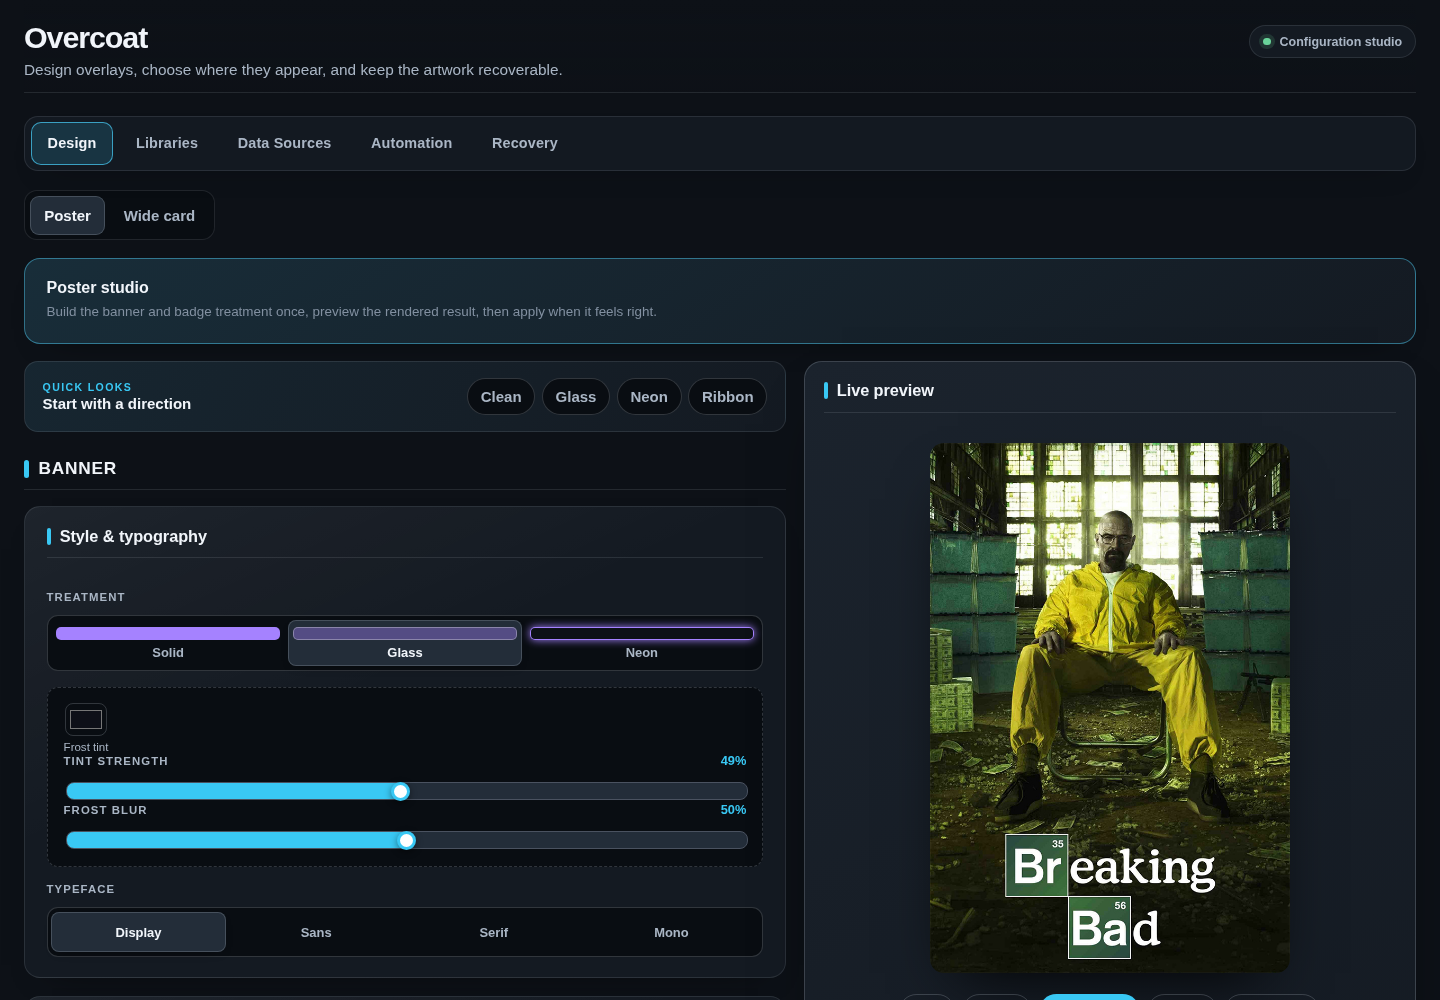
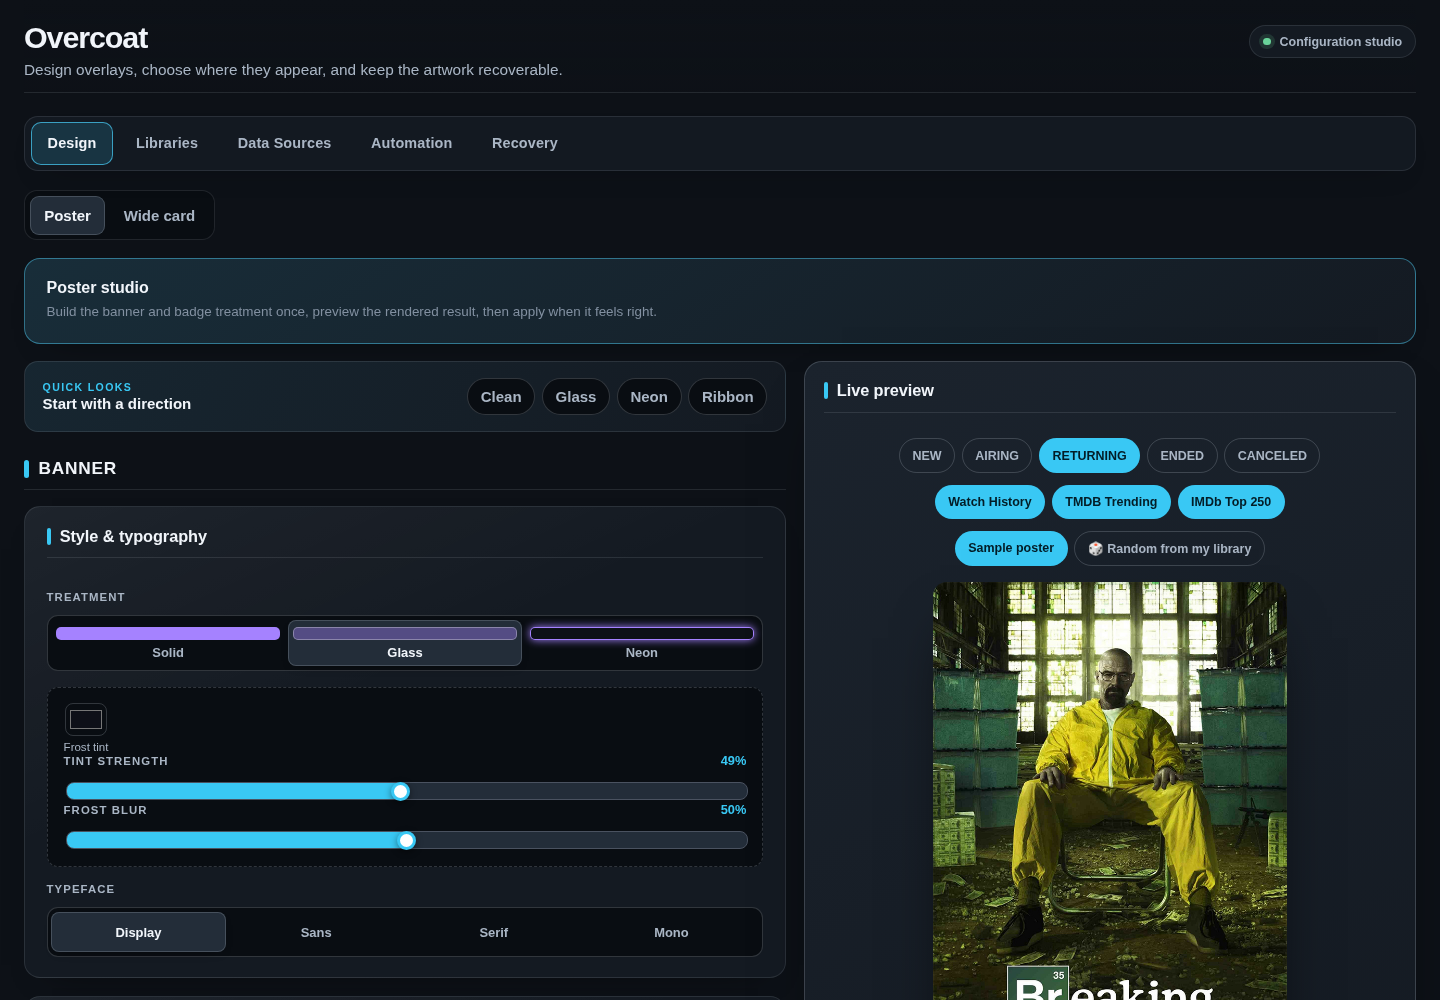
Keep preview controls above artwork

Changed region(s): [[0.625, 0.434, 0.9062, 1.0]]

diff --git a/Jellyfin.Plugin.Overcoat/Configuration/configPage.html b/Jellyfin.Plugin.Overcoat/Configuration/configPage.html
@@ -330,16 +330,13 @@
                                 <button type="button" class="ovcChip ovcChipActive" data-badge="tmdb_trending" aria-pressed="true">TMDB Trending</button>
                                 <button type="button" class="ovcChip ovcChipActive" data-badge="imdb_top250" aria-pressed="true">IMDb Top 250</button>
                             </div>
-                            <div class="fieldDescription">Pick a status for the banner; toggle which badges show.</div>
                             <div class="ovcStatusSwitch">
                                 <button type="button" class="ovcChip ovcSourceBtn ovcChipActive" data-source="placeholder">Sample poster</button>
                                 <button type="button" class="ovcChip ovcSourceBtn" data-source="random">🎲 Random from my library</button>
                             </div>
                             <img id="PostersPreview" alt="Poster preview" />
                             <div class="ovcMuted">
-                                Banner + badges together, exactly as a real run would produce them. Random picks a
-                                clean poster from your own library (click again for another); it never uses one
-                                Overcoat has already overlaid.
+                                Banner and badges together. Random uses a clean, unmodified poster from your library.
                             </div>
                         </div>
                     </div>
@@ -456,15 +453,13 @@
                                 <button type="button" class="ovcChip ovcChipActive" data-badge="tmdb_trending" aria-pressed="true">TMDB Trending</button>
                                 <button type="button" class="ovcChip ovcChipActive" data-badge="imdb_top250" aria-pressed="true">IMDb Top 250</button>
                             </div>
-                            <div class="fieldDescription">Pick a status for the banner; toggle which badges show.</div>
                             <div class="ovcStatusSwitch">
                                 <button type="button" class="ovcChip ovcWideSourceBtn ovcChipActive" data-source="placeholder">Sample card</button>
                                 <button type="button" class="ovcChip ovcWideSourceBtn" data-source="random">🎲 Random from my library</button>
                             </div>
                             <img id="WidePreview" alt="Wide-card preview" />
                             <div class="ovcMuted">
-                                Banner + badges on a 16:9 wide card. Random picks a clean series thumb from your own
-                                library; it never uses one Overcoat has already overlaid.
+                                Banner and badges together. Random uses a clean series thumb from your library.
                             </div>
                         </div>
                     </div>

diff --git a/tools/Showcase/capture-settings.js b/tools/Showcase/capture-settings.js
@@ -139,6 +139,9 @@ const out = path.resolve(process.argv[2] || path.join(root, 'assets'));
         const el=document.querySelector('#'+id), box=el.getBoundingClientRect(), style=getComputedStyle(el);
         return [Math.round(box.width),Math.round(box.height),style.borderRadius].join(':');
       }),
+      previewOverflow: getComputedStyle(document.querySelector('[data-preview-kind="poster"]')).overflowY,
+      randomOrder: parseInt(getComputedStyle(document.querySelector('.ovcSourceBtn[data-source="random"]').parentElement).order, 10),
+      posterOrder: parseInt(getComputedStyle(document.querySelector('#PostersPreview')).order, 10),
     }));
     if (computed.form < Math.min(1200, computed.available - 8)) throw new Error(`Jellyfin's 54em form cap was not overridden (${computed.form}px).`);
     if (page.viewportSize().width >= 1200 && computed.minCard < 470) throw new Error(`Maintenance card is narrower than its 480px design minimum (${computed.minCard}px).`);
@@ -149,6 +152,9 @@ const out = path.resolve(process.argv[2] || path.join(root, 'assets'));
     if (computed.libraryActionRadii.some(x=>x < 20)) throw new Error(`Library artwork actions are not rounded (${computed.libraryActionRadii.join(', ')}).`);
     if (computed.runTop >= computed.behaviourTop) throw new Error('Run Now is not the first Automation section.');
     if (new Set(computed.statusSwitches).size !== 1) throw new Error(`Status visibility switches do not share one shape (${computed.statusSwitches.join(', ')}).`);
+    if (computed.previewOverflow === 'auto' || computed.previewOverflow === 'scroll' || computed.randomOrder >= computed.posterOrder) {
+      throw new Error(`Preview source controls are not accessible above the artwork (${computed.randomOrder}, ${computed.posterOrder}, ${computed.previewOverflow}).`);
+    }
     if (await page.locator('#TrendingTimeWindow option[value="month"]').count() !== 1) throw new Error('Monthly TMDB trending choice is missing.');
     const customSchedule = page.locator('#CustomScheduleTime');
     if (await customSchedule.isChecked()) await customSchedule.click();

diff --git a/Jellyfin.Plugin.Overcoat/Configuration/configPage.css b/Jellyfin.Plugin.Overcoat/Configuration/configPage.css
@@ -202,18 +202,23 @@
 #OvercoatConfigPage .ovcBannerPreview {
     grid-area: preview; position: sticky; top: 4.5rem; z-index: 2;
     display: flex; flex-direction: column; align-items: stretch; gap: .35rem;
-    min-height: 560px; max-height: calc(100vh - 10rem); overflow-y: auto; padding: 1.2rem; text-align: center;
+    min-height: 560px; padding: 1.2rem; text-align: center;
     background: linear-gradient(155deg, var(--ov-surface-2), var(--ov-surface));
     border-color: var(--ov-border-strong); border-radius: 18px;
     box-shadow: 0 25px 65px -38px rgba(0, 0, 0, .95);
 }
 #OvercoatConfigPage .ovcBannerPreview > h3 { order: 0; justify-content: flex-start; }
-#OvercoatConfigPage .ovcBannerPreview img { order: 1; display: block; width: 100%; max-width: 360px; margin: .5rem auto .8rem; border-radius: 14px; box-shadow: 0 28px 60px -28px rgba(0, 0, 0, .98); }
+#OvercoatConfigPage .ovcBannerPreview img {
+    order: 2; display: block; width: auto; max-width: 100%; max-height: min(52vh, 540px);
+    margin: .5rem auto .8rem; border-radius: 14px; object-fit: contain;
+    box-shadow: 0 28px 60px -28px rgba(0, 0, 0, .98);
+}
 #OvercoatConfigPage .ovcWidePreview { min-height: 460px; }
-#OvercoatConfigPage .ovcWidePreview img { max-width: 440px; }
+#OvercoatConfigPage .ovcWidePreview img { width: 100%; max-width: 440px; max-height: min(42vh, 440px); }
 #OvercoatConfigPage .ovcBannerPreview .ovcStatusSwitch,
-#OvercoatConfigPage .ovcBannerPreview > .fieldDescription,
-#OvercoatConfigPage .ovcBannerPreview > .ovcMuted { order: 2; }
+#OvercoatConfigPage .ovcBannerPreview > .fieldDescription { order: 1; }
+#OvercoatConfigPage .ovcBannerPreview .ovcStatusSwitch { order: 1; }
+#OvercoatConfigPage .ovcBannerPreview > .ovcMuted { order: 3; }
 #OvercoatConfigPage .ovcBannerPreview .ovcStatusSwitch { margin: .2rem 0; }
 #OvercoatConfigPage .ovcWideLocked { opacity: .58; filter: saturate(.7); }
 #OvercoatConfigPage .ovcPreviewHint { margin: .2rem 0 .45rem; color: var(--ov-faint); font-size: .72rem; text-transform: uppercase; letter-spacing: .09em; }

diff --git a/scripts/check_config_page.js b/scripts/check_config_page.js
@@ -119,6 +119,7 @@ const cssPatterns = [
   ['save dock is revealable', /\.ovcSaveDock\.ovcVisible/],
   ['plugin overflow is corrected', /overflow:\s*visible\s*!important/],
   ['desktop preview is sticky', /\.ovcBannerPreview\s*\{[^}]*position:\s*sticky/],
+  ['preview controls stay above artwork without nested scrolling', /\.ovcBannerPreview img\s*\{[^}]*order:\s*2[\s\S]*\.ovcBannerPreview \.ovcStatusSwitch\s*\{\s*order:\s*1/],
   ['navigation stays in a top rail', /\.ovcTabs\s*\{[\s\S]*position:\s*sticky;[\s\S]*flex-direction:\s*row/],
   ['operation buttons stay rounded', /#OvercoatRunNow,[\s\S]*#OvercoatRestore,[\s\S]*#OvercoatVaultRefresh\s*\{[^}]*border-radius:\s*999px\s*!important/],
   ['library artwork buttons stay rounded', /#OvercoatUseWideCardsAll,[\s\S]*#OvercoatUseEpisodeStillsAll\s*\{[^}]*border-radius:\s*999px\s*!important/],

diff --git a/CHANGELOG.md b/CHANGELOG.md
@@ -23,6 +23,9 @@ All notable changes to Overcoat are documented here. Format follows
   makes the faster normal operating mode clear without adding more helper text.
 - **Recovery Recheck matches the action system.** The vault refresh control now uses the same
   rounded pill treatment as Apply Overcoat and Restore Originals.
+- **Live-preview controls no longer hide below the artwork.** Status, badge, Sample, and Random
+  controls now sit above the responsive preview image, and the sticky card no longer creates its own
+  nested scrollbar. Supporting copy is shorter on both Poster and Wide Card.
 
 ## [0.9.0-beta.2] — 2026-07-24
 
